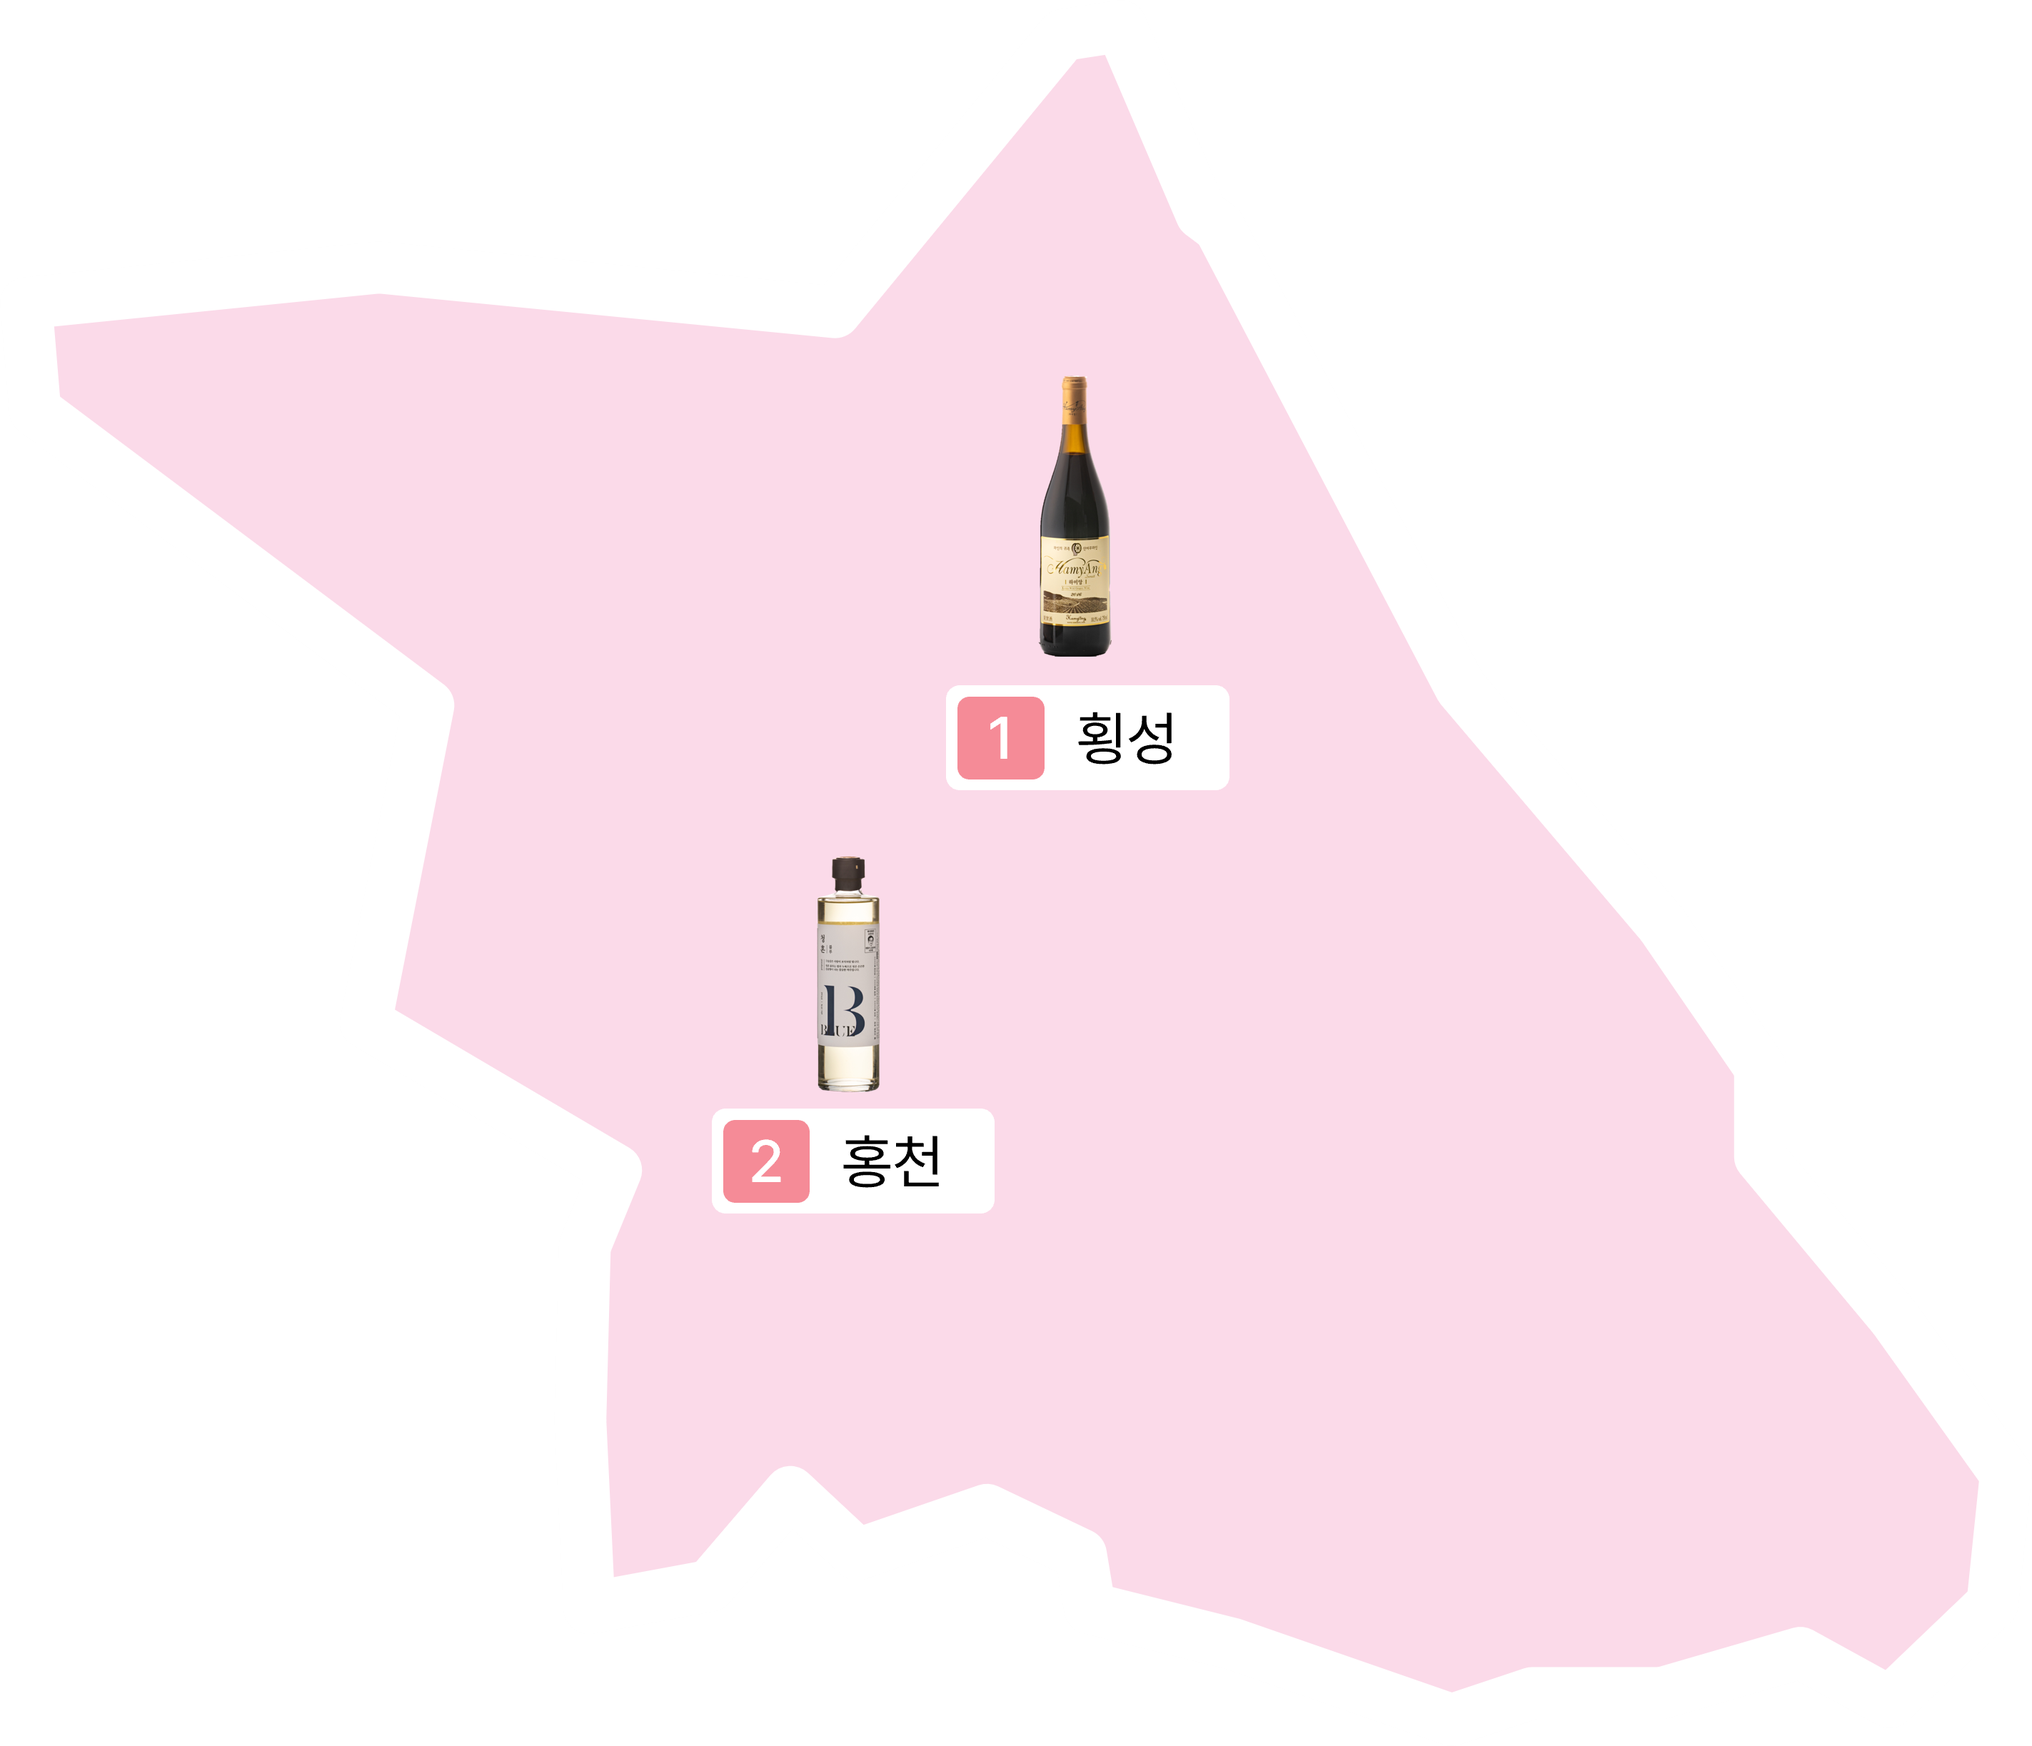
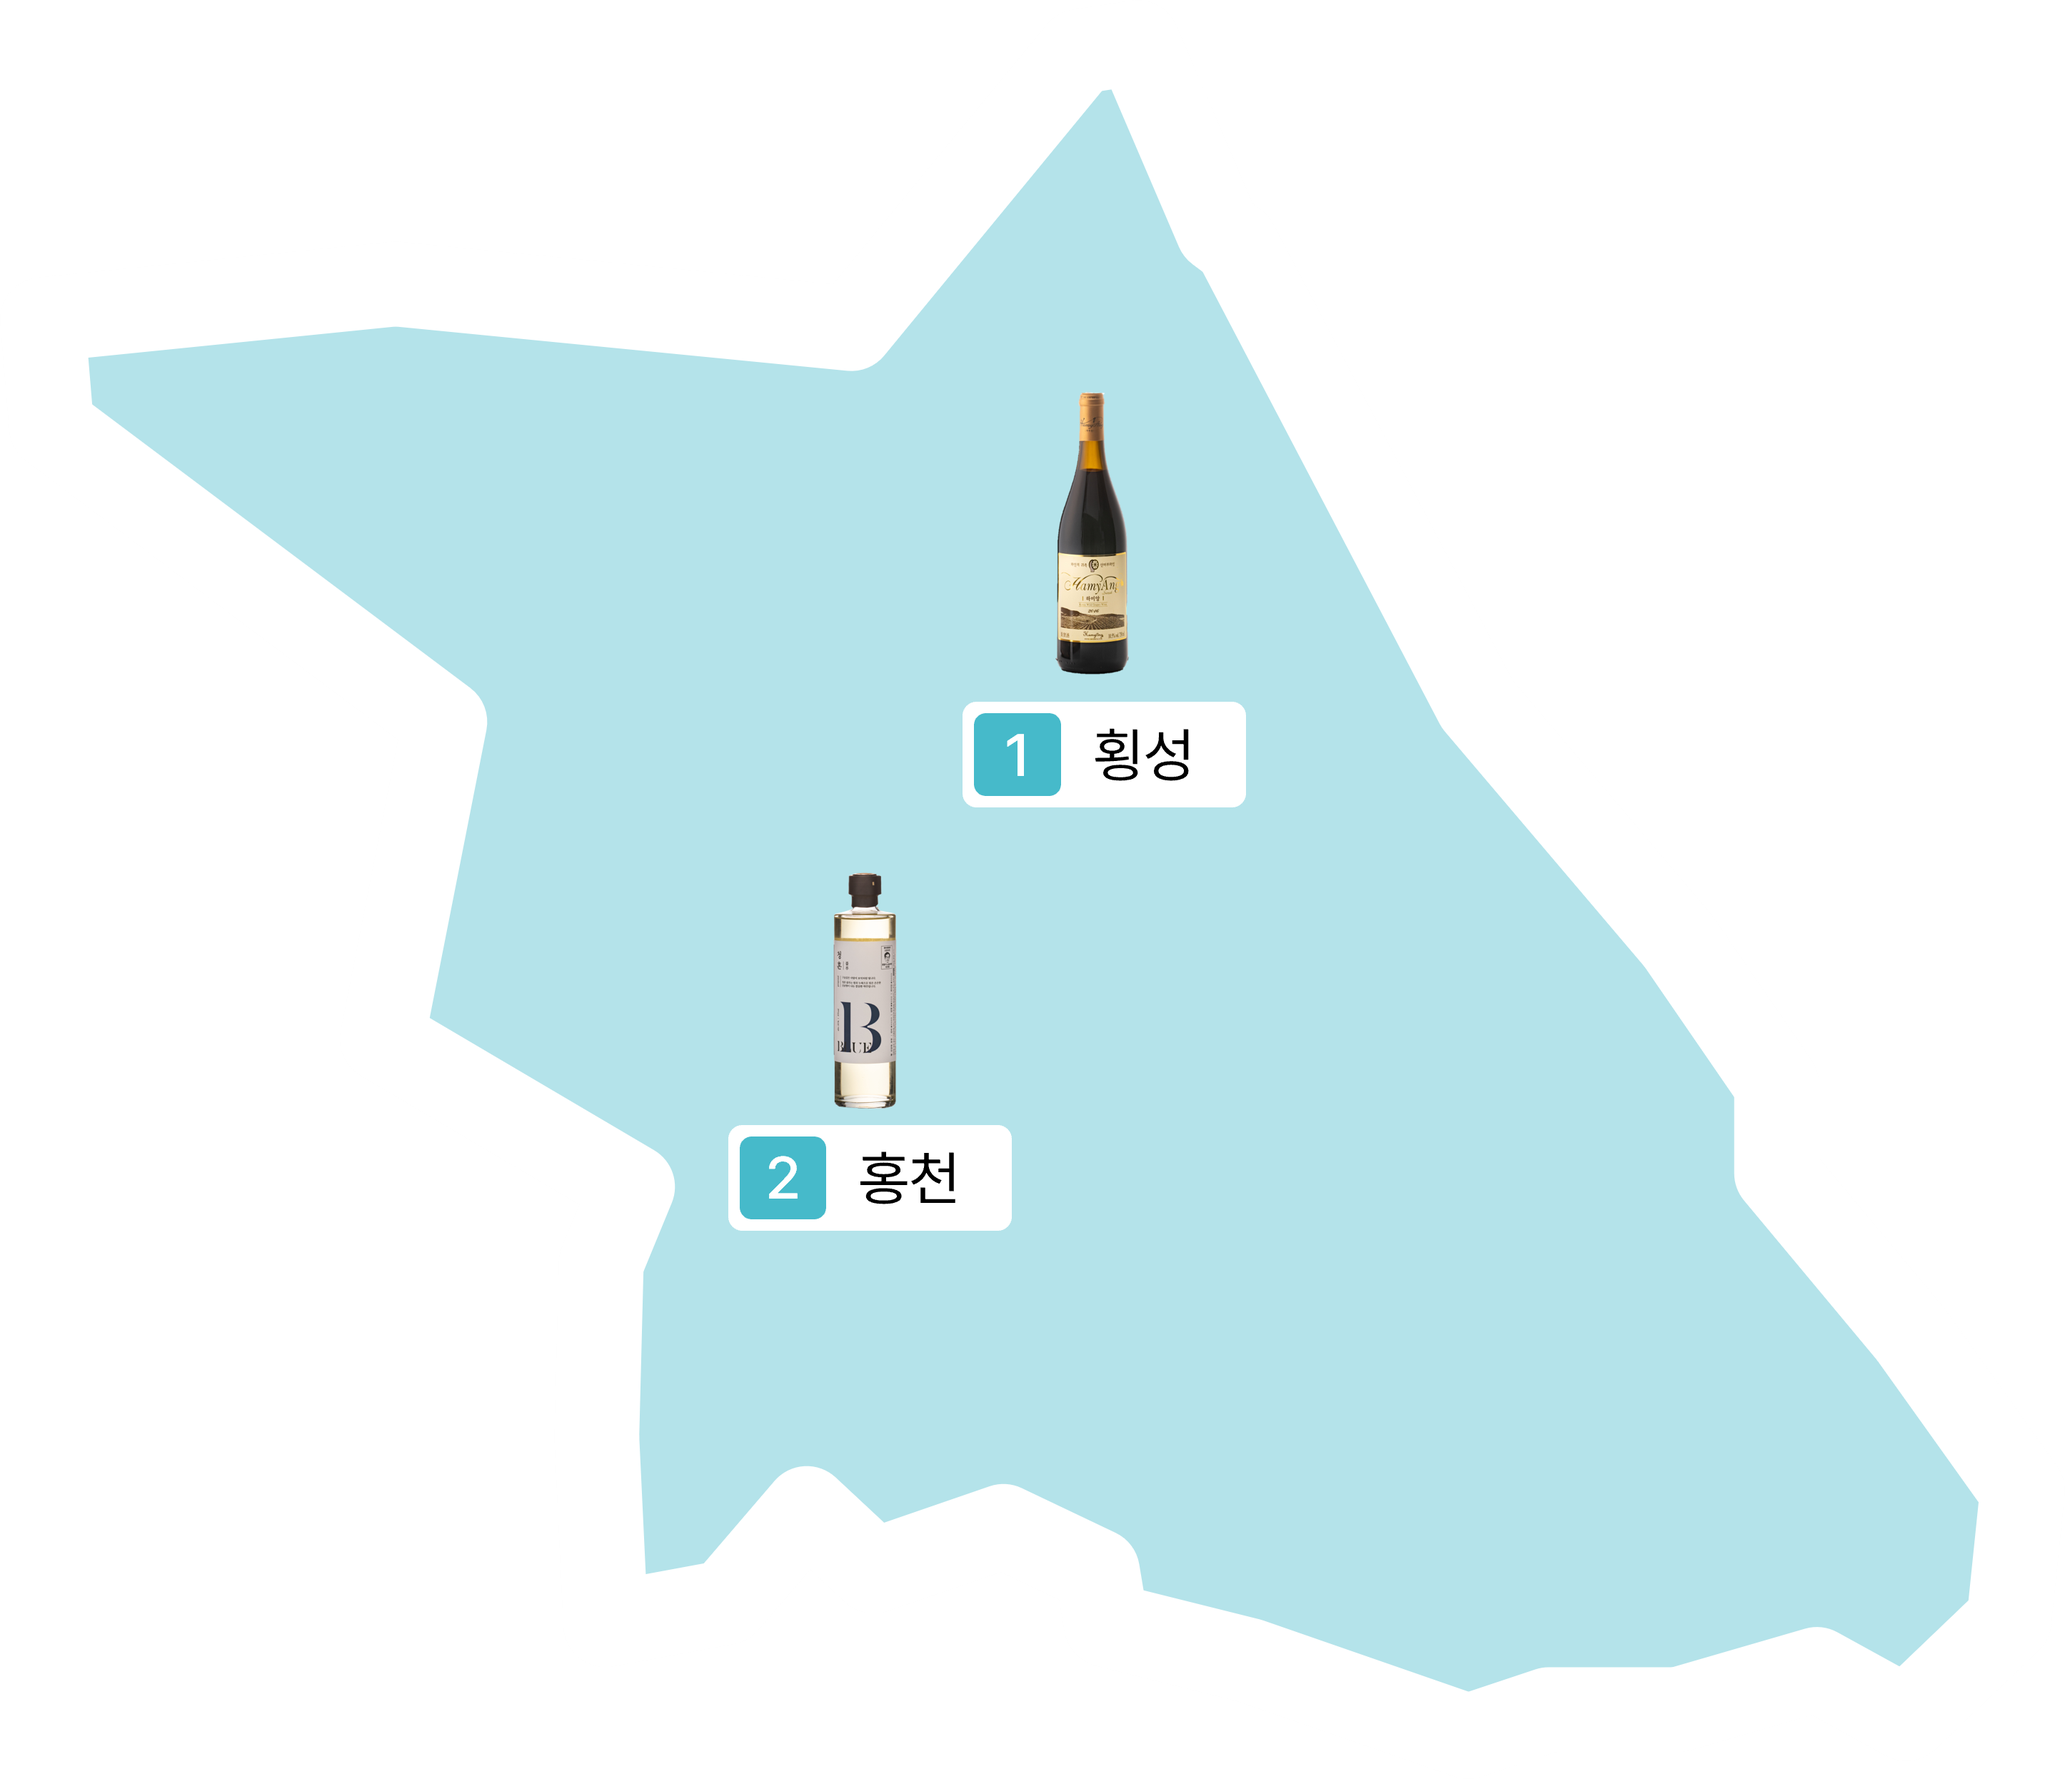
[FEAT] #S08P22A707-271 지도 페이지 제작

diff --git a/Front/sulnaeeum/src/pages/map/index.tsx b/Front/sulnaeeum/src/pages/map/index.tsx
@@ -2,32 +2,99 @@ import React from 'react'
 import style from './map.module.css'
 
 
+
+const datas = [
+  {id : 1, src : 'images/map/경기도', },
+  {id : 2, src : 'images/map/강원도', },
+  {id : 3, src : 'images/map/충청도', },
+  {id : 4, src : 'images/map/전라도', },
+  {id : 5, src : 'images/map/경상도', },
+  {id : 6, src : 'images/map/제주도', },
+]
+
+
+
+function Space() {
+  return <>
+    <div className='w-screen h-[50px] bg-red-600'></div>
+  </>
+}
+
+function Map1(props:any) {
+  const {datas} = props
+
+  return <>
+    <div className={`${style.mapContainer} ${style.layout}`}>
+
+            {datas.map((data: any, index: number)=> {
+              return <>
+                <img key={index} className={`${style['map'+ data.id]} ${style.hover_cursor}`} src= {`${data.src}기본.png`} alt="지도 이미지"
+                  onMouseOver={()=>{
+                  const target = document.querySelector('.' + style['map0'+data.id]);
+                  target?.classList.toggle(style['nosee'])
+                }}></img>
+
+              </>
+            })}
+        </div>
+  </>
+}
+
+function Map2(props:any) {
+  const {datats} = props
+
+  return <>
+    <div className={`${style.mapContainer2} ${style.layout}`}>
+      {datas.map((data:any, index: number)=> {
+        return <>
+          <img id='map1' className={`${style['map0'+data.id]} ${style.nosee}  ${style.hover_cursor}`} src={`${data.src}.png`} alt="지도 이미지"
+          onMouseLeave={()=> {
+          const target = document.querySelector('.' + style['map0'+data.id]);
+          target?.classList.toggle(style['nosee'])
+          }}
+        ></img>
+        </>
+      })}
+    </div>  
+  </>
+}
+
+
+function Mark() {
+  return <>
+    <img  className={`${style.mark_box}`} src="images/mark.png" alt='문양'></img>
+    
+  </>
+}
+
+
+
+
 export default function index() {
+  
+  
+  
+  
+  
+  
+  
+  
+  
   return (
     <>
+      <Space></Space>
       <div className={style.container}>
-        <h1>지도 페이지</h1>
-        <div className={`${style.mapContainer} ${style.layout}`}>
-          <img src="images/map/전국지도.png" alt="지도 이미지" width="300"></img>
-          <div className={`${style.map1}`}>
-            <img src="images/map/경기도.png" alt="지도 이미지" width="158"                                        ></img>
-          </div>
-          <div className={`${style.map2}`}>
-            <img src="images/map/강원도.png" alt="지도 이미지" width="178"                                        ></img>
-          </div>
-          <div className={`${style.map3}`}>
-            <img src="images/map/충청도.png" alt="지도 이미지" width="190"                                        ></img>
-          </div>
-          <div className={`${style.map4}`}>
-            <img src="images/map/전라도.png" alt="지도 이미지" width="174"                                        ></img>
-          </div>
-          <div className={`${style.map5}`}>
-            <img src="images/map/경상도.png" alt="지도 이미지" width="154"                                        ></img>
-          </div>
-          <div className={`${style.map6}`}>
-            <img src="images/map/제주도.png" alt="지도 이미지" width="154"                                        ></img>
-          </div>
+        <div className={`${style.map_title}`}>
+          <h1>전국 전통주 지도</h1>
         </div>
+        <div className={style.map_box}>
+          <Map1 datas={datas}></Map1>
+          <Map2 datas={datas}></Map2>
+        </div>
+        <Mark></Mark>
+
+        
+
       </div>
     </>
 

diff --git a/Front/sulnaeeum/src/pages/map/map.module.css b/Front/sulnaeeum/src/pages/map/map.module.css
@@ -1,58 +1,165 @@
 .container {
     width: 100%;
-    height: 920px;
+    height: 100%;
     //background-color: rgba(230,200,200,0.4);
     display: flex;
     flex-direction: column;
     align-items: center;
-    justify-contents: center;
 }
 
-.layout {
+/* .layout {
     outline: 2px dashed red;
-}
+} */
 .mapContainer {
-    margin-top: 40px;
+    width: 600px;
+    height: 900px;
+    margin-top: 0px;
+    display: flex;
+    flex-direction: column;
+    padding-left: 20px;
+
+}
+.mapContainer2 {
+    position:relative;
+    top: -960px;
+    width: 600px;
+    height: 900px;
+    margin-top: 60px;
+    display: flex;
+    flex-direction: column;
+    padding-left: 20px;
 }
 
 .map1 {
     position: relative;
-    z-index: 100000;
-    top: -470px;
-    left: 22px;
+    z-index: 10;
+    top: 60px;
+    left: 120px;
+    border-radius: 50px;
+    width: 180px;
 }
-
+.map01 {
+    position: relative;
+    z-index: 10;
+    top: 42px;
+    left: 100px;
+    border-radius: 50px;
+    width: 208px;
+    
+}
 .map2 {
     position: relative;
-    z-index: 100001;
-    top: -654px;
-    left: 104px;
+    z-index: 8;
+    top: -190px;
+    left: 206px;
+    border-radius: 20px;
+    width: 270px;
 }
-
+.map02 {
+    position: relative;
+    z-index: 12;
+    top: -220px;
+    left: 192px;
+    border-radius: 20px;
+    width: 290px;
+}
 .map3 {
     position: relative;
-    z-index: 100000;
-    top: -674px;
-    left: 28px;
+    z-index: 10;
+    top: -210px;
+    left: 110px;
+    border-radius: 30px;
+    width: 248px;
 }
-
+.map03 {
+    position: relative;
+    z-index: 10;
+    top: -268px;
+    left: 94px;
+    border-radius: 30px;
+    width: 296px;
+}
 .map4 {
     position: relative;
-    z-index: 100000;
-    top: -694px;
-    left: -2px;
+    z-index: 10;
+    top: -226px;
+    left: 50px;
+    border-radius: 34px;
+    width: 250px;
+}
+.map04 {
+    position: relative;
+    z-index: 10;
+    top: -316px;
+    left: 26px;
+    border-radius: 34px;
+    width: 294px;
 }
 
 .map5 {
     position: relative;
-    z-index: 100000;
-    top: -474px;
-    left: 18px;
+    z-index: 10;
+    top: -630px;
+    left: 262px;
+    border-radius: 40px;
+    width: 230px;
+}
+.map05 {
+    position: relative;
+    z-index: 12;
+    top: -770px;
+    left: 254px;
+    border-radius: 40px;
+    width: 250px;
 }
 
 .map6 {
     position: relative;
-    z-index: 100000;
-    top: -472px;
-    left: 18px;
+    z-index: 10;
+    top: -564px;
+    left: 80px;
+    border-radius: 20px;
+    width: 130px;
+}
+.map06 {
+    position: relative;
+    z-index: 12;
+    top: -748px;
+    left: 70px;
+    border-radius: 20px;
+    width: 154px;
+}
+.nosee {
+    visibility: hidden;
+}
+
+.hover_cursor:hover {
+    cursor: pointer;
+}
+
+
+.map_box {
+    position: relative;
+    width: 650px;
+    left: 0px;
+}
+
+.map_title {
+    height: 60px;
+}
+
+.map_title h1{
+    font-family: 'star';
+    font-size: 60px;
+    color: #3C97A5;
+    position: absolute;
+    top: 120px;
+    left: 70px;
+}
+
+.mark_box {
+    position: absolute;
+    left: -300px;
+    bottom: -400px;
+    width: 800px;
 }

diff --git a/Front/sulnaeeum/src/pages/_app.tsx b/Front/sulnaeeum/src/pages/_app.tsx
@@ -2,7 +2,7 @@ import "@/styles/globals.css";
 import type { AppProps } from "next/app";
 import Head from "next/head";
 import NavBar from "../components/NavBar";
-import TestNav from "../components/TestNav";
+import TestNav from "../components/testNav";
 
 export default function App({ Component, pageProps }: AppProps) {
   return (
@@ -11,7 +11,7 @@ export default function App({ Component, pageProps }: AppProps) {
         <title>SULNAEEUM | 술내음</title>
       </Head>
       {/* <NavBar /> */}
-      <TestNav className={"absolute"} />
+      <TestNav/>
       <Component {...pageProps} />
     </>
   );
